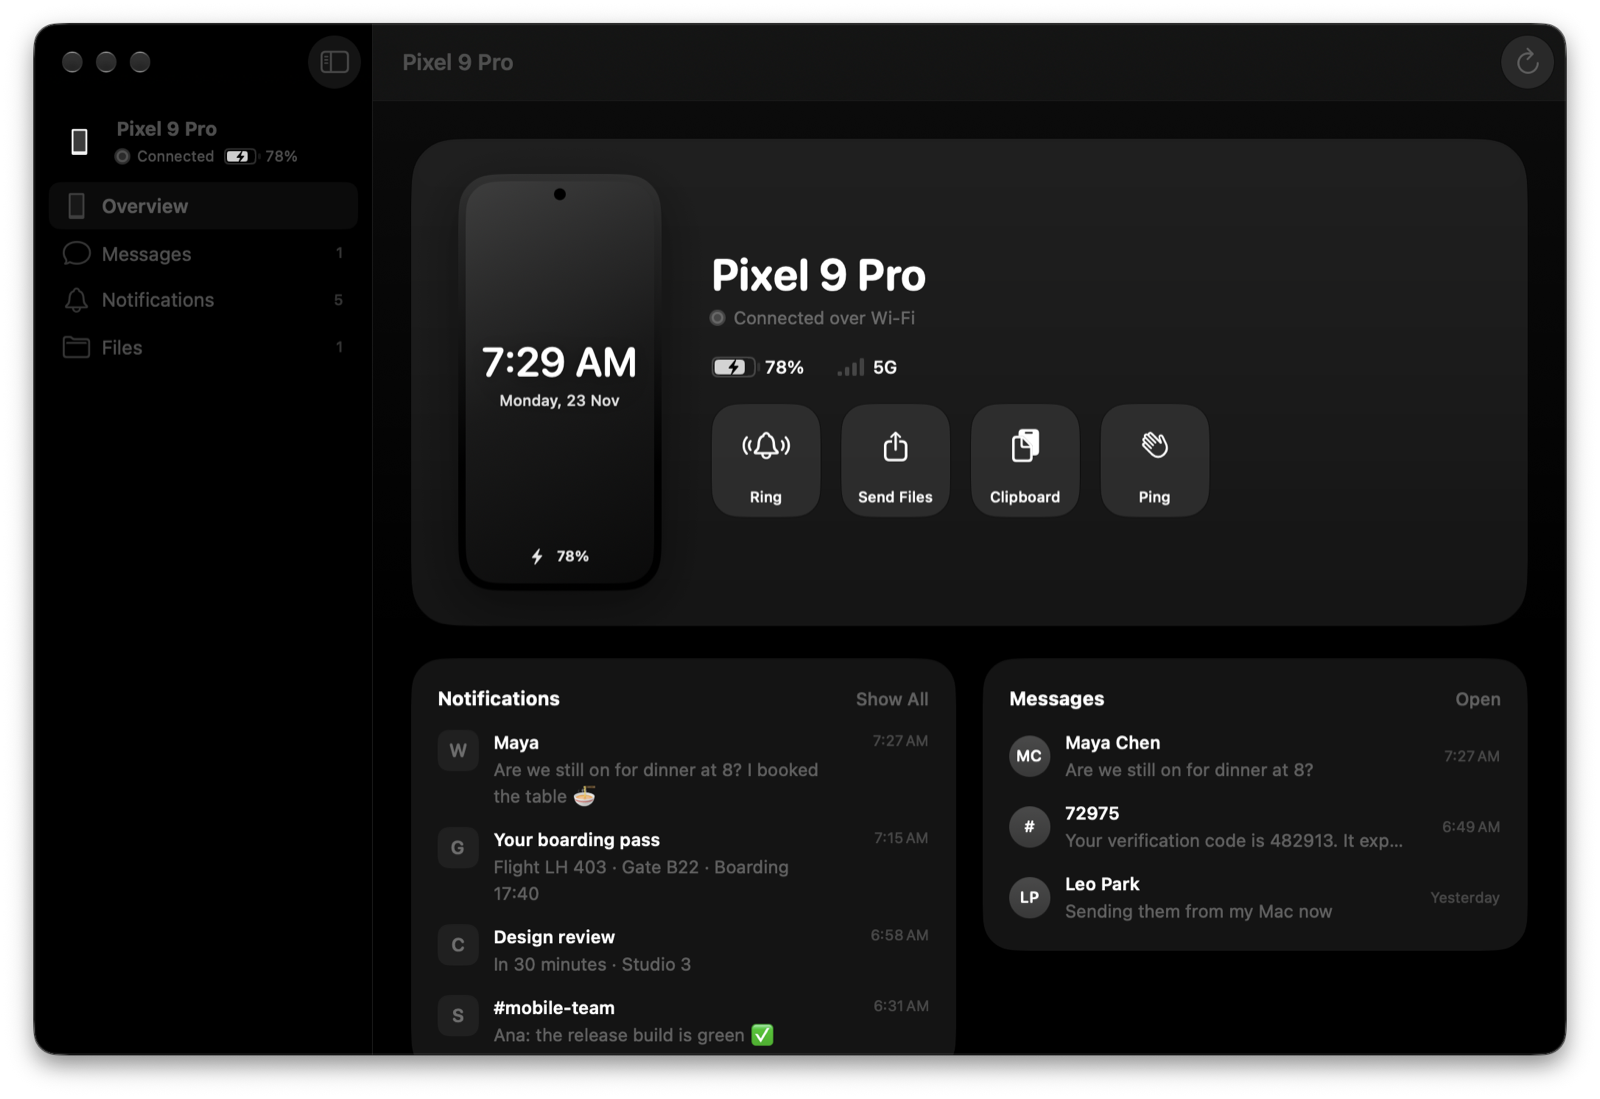
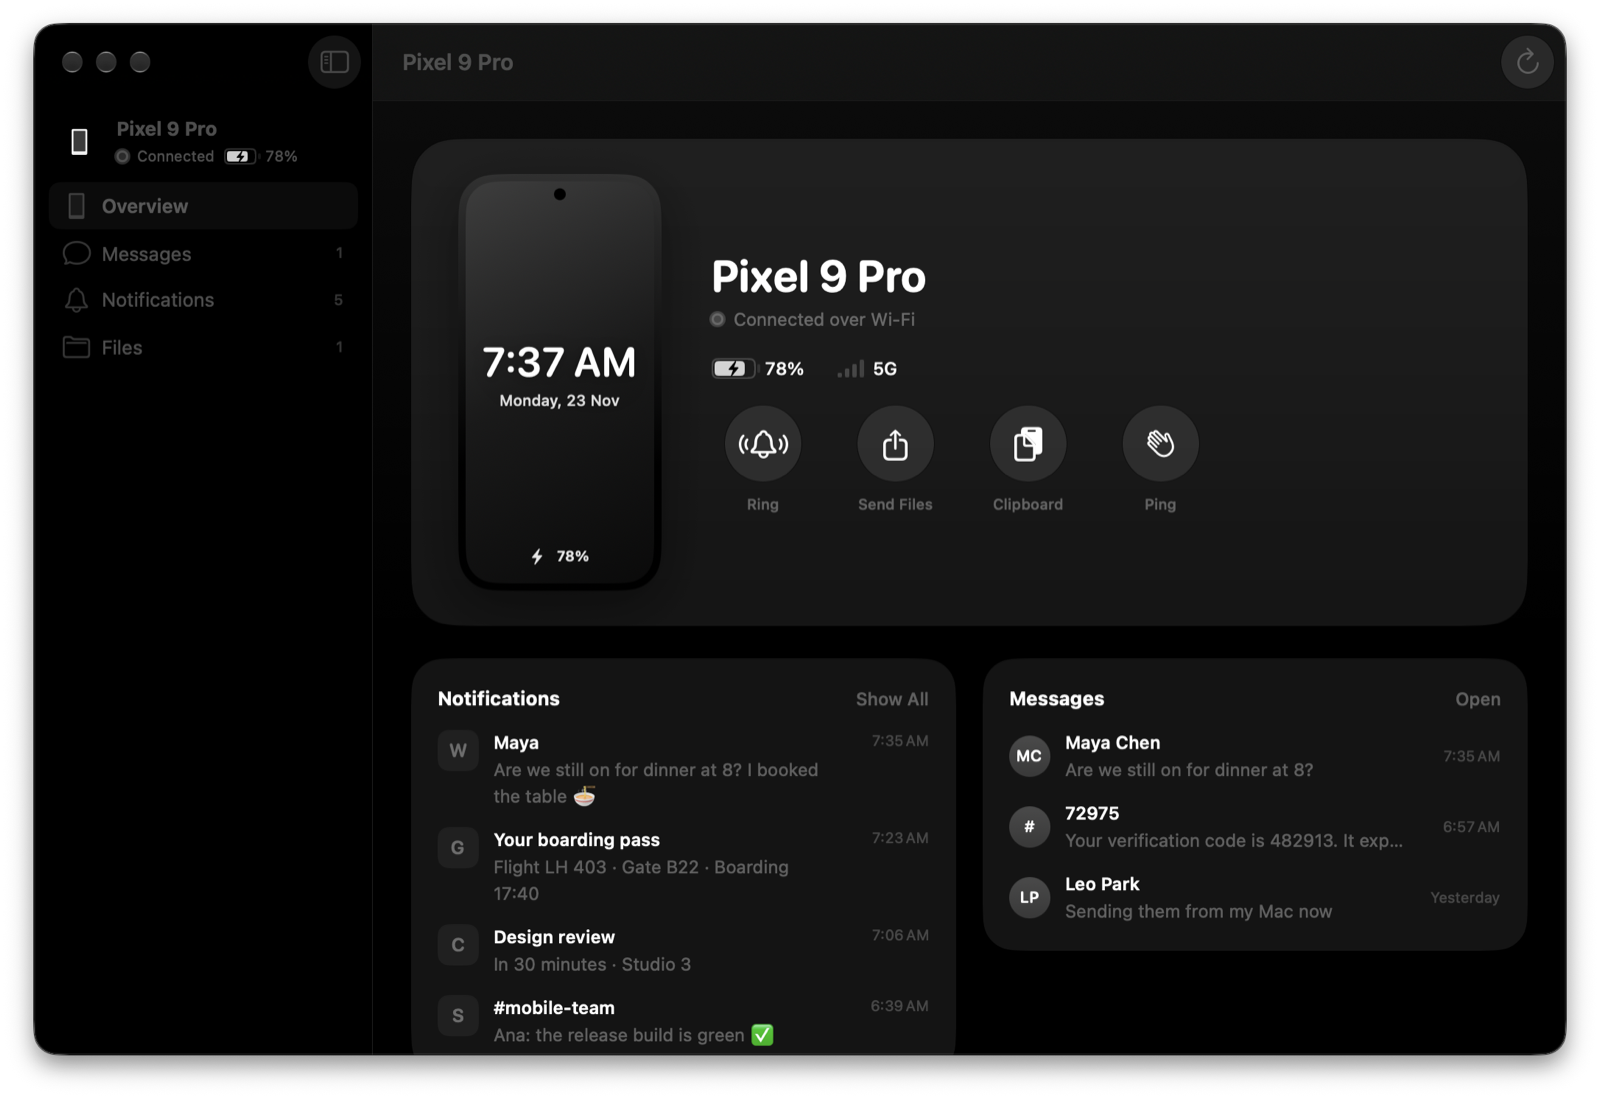
Round glass quick actions on both apps; quieter discovery
- Mac: Ring, Send Files, Clipboard and Ping are Liquid Glass circles with
  labels underneath (no tile containers), springing on hover, bouncing on
  tap and popping in one after another. The menu bar panel matches.
- Android: the same four actions as round frosted-glass buttons with a
  springy press, an icon pop on tap and a staggered entrance.
- Mac: broadcasts looking for a missing phone back off from 15 s to 5 min;
  Android reconnected on every broadcast, causing a reconnect every 15 s.

diff --git a/android/src/main/java/org/kde/kdeconnect/ui/compose/screen/device/PluginsScreen.kt b/android/src/main/java/org/kde/kdeconnect/ui/compose/screen/device/PluginsScreen.kt
@@ -8,6 +8,12 @@
 package org.kde.kdeconnect.ui.compose.screen.device
 
 import androidx.compose.animation.core.Spring
+import androidx.compose.ui.text.style.TextAlign
+import androidx.compose.runtime.setValue
+import androidx.compose.runtime.mutableStateOf
+import androidx.compose.runtime.mutableIntStateOf
+import androidx.compose.runtime.LaunchedEffect
+import androidx.compose.animation.core.Animatable
 import androidx.compose.animation.core.animateFloatAsState
 import androidx.compose.animation.core.spring
 import androidx.compose.foundation.background
@@ -155,75 +161,119 @@ private fun PluginButtons(
     numColumns: Int,
     onButtonClick: (Plugin.PluginUiButton) -> Unit
 ) {
-    Column(modifier = Modifier.padding(horizontal = 16.dp)) {
-        buttons.chunked(numColumns).forEach { row ->
-            Row(
-                modifier = Modifier
-                    .fillMaxWidth()
-                    .padding(bottom = 12.dp),
-                horizontalArrangement = Arrangement.spacedBy(12.dp)
-            ) {
-                row.forEach { button ->
-                    PluginButton(button = button, modifier = Modifier.weight(1f), onClick = { onButtonClick(button) })
+    // Round glass buttons, four to a row, like the Mac app's quick actions.
+    var appeared by remember { mutableStateOf(false) }
+    LaunchedEffect(Unit) { appeared = true }
+    val perRow = maxOf(4, numColumns)
+    Column(
+        verticalArrangement = Arrangement.spacedBy(18.dp),
+        modifier = Modifier.padding(horizontal = 12.dp, vertical = 4.dp)
+    ) {
+        buttons.chunked(perRow).forEachIndexed { rowIndex, row ->
+            Row(modifier = Modifier.fillMaxWidth(), horizontalArrangement = Arrangement.SpaceEvenly) {
+                row.forEachIndexed { i, button ->
+                    GlassCircleButton(
+                        button = button,
+                        index = rowIndex * perRow + i,
+                        appeared = appeared,
+                        modifier = Modifier.weight(1f),
+                        onClick = { onButtonClick(button) },
+                    )
                 }
-                repeat(numColumns - row.size) { Spacer(modifier = Modifier.weight(1f)) }
+                repeat(perRow - row.size) { Spacer(modifier = Modifier.weight(1f)) }
             }
         }
     }
 }
 
-/** An action tile, like the Mac's quick actions: white icon on a dark disc, springy press. */
+/** Frosted glass disc: translucent fill brighter at the top, a thin light rim, springy press. */
 @Composable
-private fun PluginButton(
+private fun GlassCircleButton(
     button: Plugin.PluginUiButton,
+    index: Int,
+    appeared: Boolean,
     modifier: Modifier,
-    onClick: () -> Unit
+    onClick: () -> Unit,
 ) {
     val scheme = MaterialTheme.colorScheme
+    val ink = scheme.onSurface
     val interaction = remember { MutableInteractionSource() }
     val pressed by interaction.collectIsPressedAsState()
-    val scale by animateFloatAsState(
-        targetValue = if (pressed) 0.95f else 1f,
-        animationSpec = spring(dampingRatio = 0.55f, stiffness = Spring.StiffnessMedium),
+    val pressScale by animateFloatAsState(
+        targetValue = if (pressed) 0.9f else 1f,
+        animationSpec = spring(dampingRatio = 0.5f, stiffness = Spring.StiffnessMedium),
         label = "press",
     )
-    val shape = RoundedCornerShape(24.dp)
+    val enter by animateFloatAsState(
+        targetValue = if (appeared) 1f else 0f,
+        animationSpec = spring(dampingRatio = 0.6f, stiffness = Spring.StiffnessLow),
+        label = "enter",
+    )
+    // The icon pops each time the button is tapped.
+    val pop = remember { Animatable(1f) }
+    var taps by remember { mutableIntStateOf(0) }
+    LaunchedEffect(taps) {
+        if (taps > 0) {
+            pop.animateTo(1.25f, spring(dampingRatio = 0.4f, stiffness = Spring.StiffnessHigh))
+            pop.animateTo(1f, spring(dampingRatio = 0.45f, stiffness = Spring.StiffnessMediumLow))
+        }
+    }
     Column(
-        verticalArrangement = Arrangement.spacedBy(14.dp),
-        modifier = modifier
-            .graphicsLayer {
-                scaleX = scale
-                scaleY = scale
-            }
-            .clip(shape)
-            .background(scheme.surfaceContainer)
-            .border(1.dp, scheme.outlineVariant, shape)
-            .clickable(interactionSource = interaction, indication = androidx.compose.material3.ripple(), onClick = onClick)
-            .semantics { role = Role.Button }
-            .padding(16.dp)
+        horizontalAlignment = Alignment.CenterHorizontally,
+        verticalArrangement = Arrangement.spacedBy(10.dp),
+        modifier = modifier.graphicsLayer {
+            // Staggered entrance: each button arrives a beat after the previous one.
+            val delayed = ((enter * 1.6f) - index * 0.15f).coerceIn(0f, 1f)
+            alpha = delayed
+            scaleX = 0.7f + 0.3f * delayed
+            scaleY = 0.7f + 0.3f * delayed
+        }
     ) {
         Box(
             contentAlignment = Alignment.Center,
             modifier = Modifier
-                .size(44.dp)
+                .size(64.dp)
+                .graphicsLayer {
+                    scaleX = pressScale
+                    scaleY = pressScale
+                }
                 .clip(CircleShape)
-                .background(scheme.surfaceContainerHighest)
+                .background(Brush.verticalGradient(listOf(ink.copy(alpha = if (pressed) 0.20f else 0.13f), ink.copy(alpha = 0.04f))))
+                .border(1.dp, Brush.verticalGradient(listOf(ink.copy(alpha = 0.34f), ink.copy(alpha = 0.06f))), CircleShape)
+                .clickable(interactionSource = interaction, indication = androidx.compose.material3.ripple(bounded = true)) {
+                    taps++
+                    onClick()
+                }
+                .semantics { role = Role.Button }
         ) {
+            // A soft highlight across the top of the glass.
+            Box(
+                Modifier
+                    .matchParentSize()
+                    .background(Brush.radialGradient(listOf(ink.copy(alpha = 0.10f), Color.Transparent),
+                        center = androidx.compose.ui.geometry.Offset(60f, 30f), radius = 120f))
+            )
             Icon(
                 painter = painterResource(id = button.iconRes),
-                tint = scheme.onSurface,
+                tint = ink,
                 contentDescription = null,
+                modifier = Modifier
+                    .size(26.dp)
+                    .graphicsLayer {
+                        scaleX = pop.value
+                        scaleY = pop.value
+                    },
             )
         }
         Text(
             text = button.name,
             maxLines = 2,
-            minLines = 2,
-            fontSize = 16.sp,
+            textAlign = TextAlign.Center,
+            fontSize = 13.sp,
+            lineHeight = 16.sp,
             fontWeight = FontWeight.Medium,
-            lineHeight = 20.sp,
-            color = scheme.onSurface,
-            overflow = TextOverflow.Ellipsis
+            color = scheme.onSurfaceVariant,
+            overflow = TextOverflow.Ellipsis,
         )
     }
 }

diff --git a/macos/Sources/GlassLink/Views/OverviewView.swift b/macos/Sources/GlassLink/Views/OverviewView.swift
@@ -139,26 +139,30 @@ struct EmptyCardText: View {
     }
 }
 
-/// The big round buttons under the device name. They share one glass container so they
-/// blend into each other as the window resizes.
+/// The round Liquid Glass buttons under the device name. They share one glass container, spring
+/// on hover, bounce when tapped, and pop in one after another when the screen appears.
 struct QuickActions: View {
     var device: PhoneDevice
     @State private var rang = 0
+    @State private var sentFiles = 0
     @State private var sentClipboard = 0
+    @State private var pinged = 0
     @State private var clipboardNote: String?
+    @State private var appeared = false
 
     var body: some View {
-        GlassEffectContainer(spacing: 14) {
-            HStack(spacing: 14) {
-                action("Ring", symbol: "bell.and.waves.left.and.right", trigger: rang) {
+        GlassEffectContainer(spacing: 12) {
+            HStack(spacing: 20) {
+                GlassActionButton(title: "Ring", symbol: "bell.and.waves.left.and.right", trigger: rang, index: 0, appeared: appeared) {
                     device.ring()
                     rang += 1
                 }
-                action("Send Files", symbol: "square.and.arrow.up", trigger: 0) {
+                GlassActionButton(title: "Send Files", symbol: "square.and.arrow.up", trigger: sentFiles, index: 1, appeared: appeared) {
+                    sentFiles += 1
                     FilePicker.sendFiles(to: device)
                 }
-                action(clipboardNote ?? "Clipboard", symbol: clipboardNote == nil ? "doc.on.clipboard" : "checkmark",
-                       trigger: sentClipboard) {
+                GlassActionButton(title: clipboardNote ?? "Clipboard", symbol: clipboardNote == nil ? "doc.on.clipboard" : "checkmark",
+                                  trigger: sentClipboard, index: 2, appeared: appeared) {
                     let result = device.sendClipboard()
                     sentClipboard += 1
                     note(result == .nothing ? "Empty" : "Sent")
@@ -172,10 +176,14 @@ struct QuickActions: View {
                         }
                     }
                 }
-                action("Ping", symbol: "hand.wave", trigger: 0) { device.ping() }
+                GlassActionButton(title: "Ping", symbol: "hand.wave", trigger: pinged, index: 3, appeared: appeared) {
+                    device.ping()
+                    pinged += 1
+                }
             }
         }
         .disabled(!device.isReady)
+        .onAppear { appeared = true }
     }
 
     private func note(_ text: String) {
@@ -185,23 +193,47 @@ struct QuickActions: View {
             withAnimation(.glass) { clipboardNote = nil }
         }
     }
+}
 
-    private func action(_ title: String, symbol: String, trigger: Int, run: @escaping () -> Void) -> some View {
-        Button(action: run) {
-            VStack(spacing: 6) {
+/// One round glass button with its label underneath.
+struct GlassActionButton: View {
+    var title: String
+    var symbol: String
+    var trigger: Int
+    var index = 0
+    var appeared = true
+    var size: CGFloat = 52
+    var action: () -> Void
+
+    @Environment(\.isEnabled) private var isEnabled
+    @State private var hovering = false
+
+    var body: some View {
+        VStack(spacing: 8) {
+            Button(action: action) {
                 Image(systemName: symbol)
-                    .font(.system(size: 18, weight: .medium))
-                    .symbolEffect(.bounce, value: trigger)
+                    .font(.system(size: size * 0.36, weight: .medium))
+                    .symbolEffect(.bounce.up, value: trigger)
                     .contentTransition(.symbolEffect(.replace))
-                    .frame(width: 44, height: 44)
-                Text(title).font(.caption.weight(.medium))
-                    .contentTransition(.opacity)
+                    .frame(width: size, height: size)
+                    .contentShape(.circle)
             }
-            .frame(width: 74)
-            .padding(.vertical, 6)
+            .buttonStyle(.plain)
+            .glassEffect(.regular.interactive(), in: .circle)
+            .scaleEffect(hovering ? 1.08 : 1)
+            .onHover { over in hovering = over && isEnabled }
+            .animation(.spring(duration: 0.35, bounce: 0.45), value: hovering)
+
+            Text(title)
+                .font(.caption.weight(.medium))
+                .foregroundStyle(.secondary)
+                .lineLimit(1)
+                .contentTransition(.opacity)
         }
-        .buttonStyle(.plain)
-        .glassEffect(.regular.interactive(), in: .rect(cornerRadius: 18))
+        .frame(minWidth: size + 18)
+        .opacity(appeared ? 1 : 0)
+        .scaleEffect(appeared ? 1 : 0.6)
+        .animation(.spring(duration: 0.5, bounce: 0.35).delay(Double(index) * 0.06), value: appeared)
         .help(title)
     }
 }

diff --git a/macos/Sources/GlassLink/Model/AppModel.swift b/macos/Sources/GlassLink/Model/AppModel.swift
@@ -134,15 +134,20 @@ final class AppModel {
         // Phones only see broadcasts sent while they're listening, so keep announcing
         // while a paired phone is away (cheap: one small UDP packet per network).
         heartbeat = Task { [weak self] in
+            // Android reconnects every time it hears a broadcast, even when already connected, so
+            // announce sparingly: 15 s, then doubling up to 5 min while a paired phone is missing.
+            // A phone that comes back announces itself anyway.
+            var delay = 15.0
             while !Task.isCancelled {
-                try? await Task.sleep(for: .seconds(15))
+                try? await Task.sleep(for: .seconds(delay))
                 guard let self else { return }
-                // A phone that hears us reconnects even when already connected, so stay quiet
-                // unless a paired phone is missing or nothing is connected at all.
                 let pairedMissing = self.pairedDevices.contains { !$0.isConnected }
                 let nothingConnected = !self.devices.values.contains { $0.isConnected }
                 if pairedMissing || nothingConnected {
                     self.provider?.broadcast()
+                    delay = min(delay * 2, 300)
+                } else {
+                    delay = 15
                 }
             }
         }

diff --git a/macos/Sources/GlassLink/Views/MenuBarViews.swift b/macos/Sources/GlassLink/Views/MenuBarViews.swift
@@ -102,15 +102,7 @@ struct MenuBarPanel: View {
     }
 
     private func small(_ title: String, _ symbol: String, run: @escaping () -> Void) -> some View {
-        Button(action: run) {
-            VStack(spacing: 4) {
-                Image(systemName: symbol).font(.system(size: 14, weight: .medium)).frame(height: 18)
-                Text(title).font(.caption2)
-            }
+        GlassActionButton(title: title, symbol: symbol, trigger: 0, size: 40, action: run)
             .frame(maxWidth: .infinity)
-            .padding(.vertical, 8)
-        }
-        .buttonStyle(.plain)
-        .glassEffect(.regular.interactive(), in: .rect(cornerRadius: 14))
     }
 }
